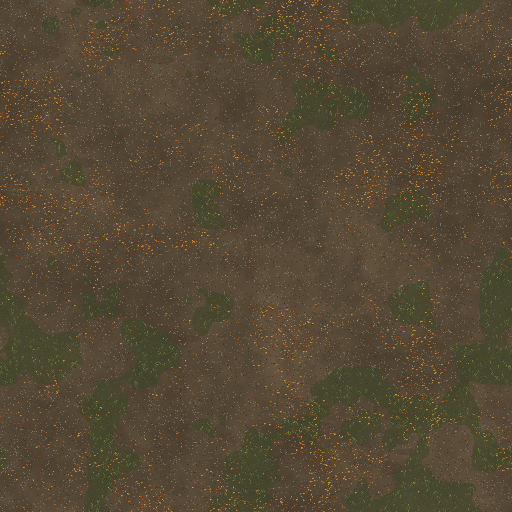
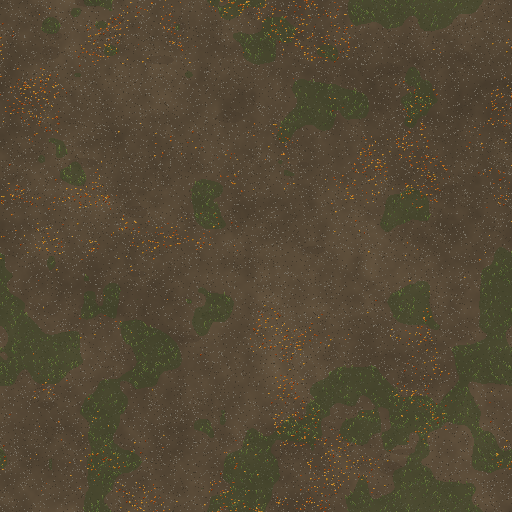
1.48 wip: settlement puddles HD, no rectangle patches, quieter leaves, grates without the orange glow
Claude-Session: https://claude.ai/code/session_01Q3d652Ep37MrDZiN13QEse

diff --git a/tools/wa_settlement_ground.py b/tools/wa_settlement_ground.py
@@ -30,8 +30,9 @@ def _all(t):
 
 def _leaves(t, seed, dense=0.05, sparse=0.006):
     lf = fbm(S, S, 48, seed + 70, 3)
-    t.leaves(lf > 0.64, dense, seed=seed + 71)
-    t.leaves((lf <= 0.64) & (lf > 0.45), sparse, seed=seed + 72)
+    # 1.48: leaves gather in drifts; the even sprinkle read as confetti
+    t.leaves(lf > 0.66, dense * 0.8, seed=seed + 71)
+    t.leaves((lf <= 0.66) & (lf > 0.5), sparse * 0.3, seed=seed + 72)
 
 
 def _cracks(t, rng, n, col=(26, 26, 28), hi=(78, 78, 76), branch=0.6):
